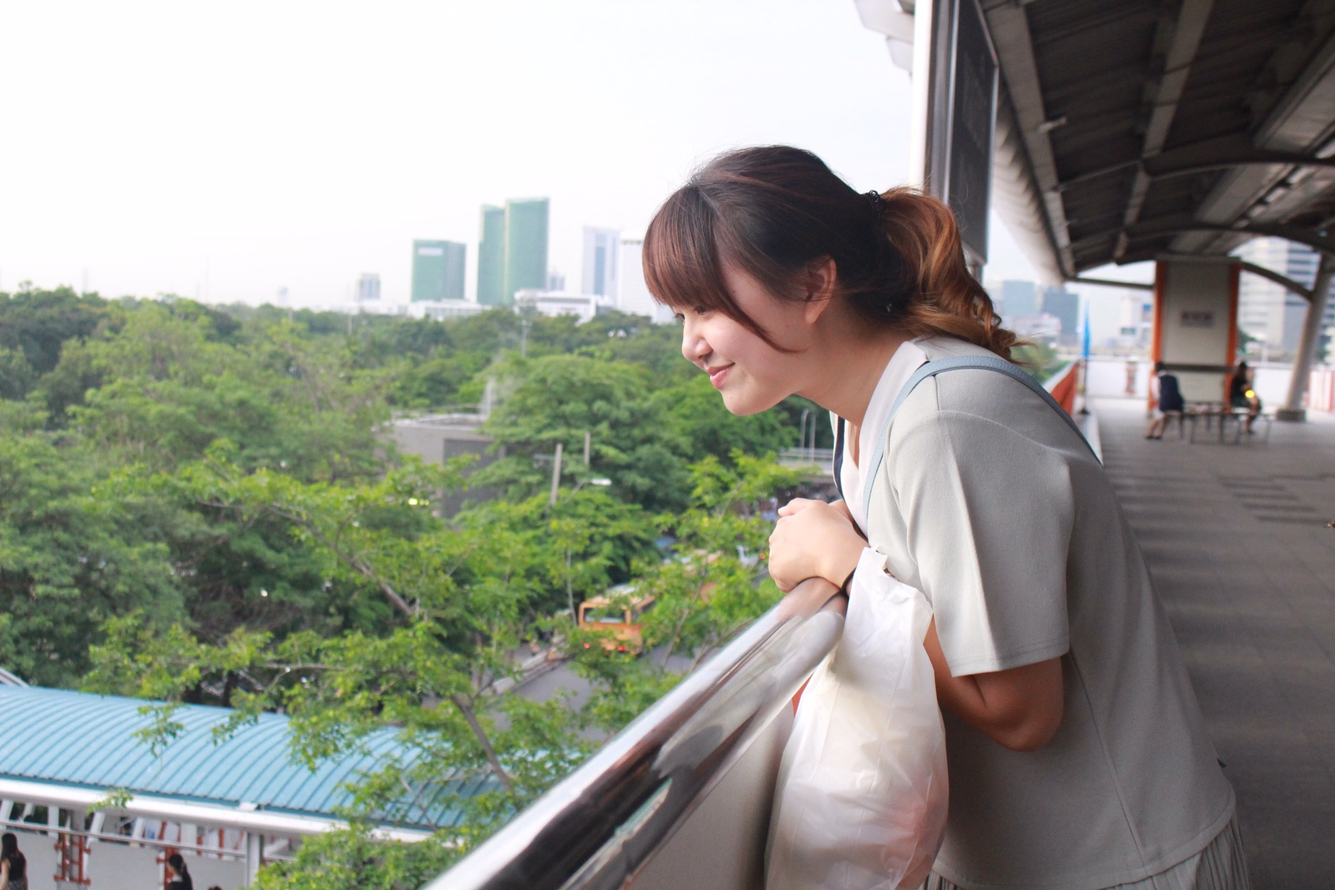
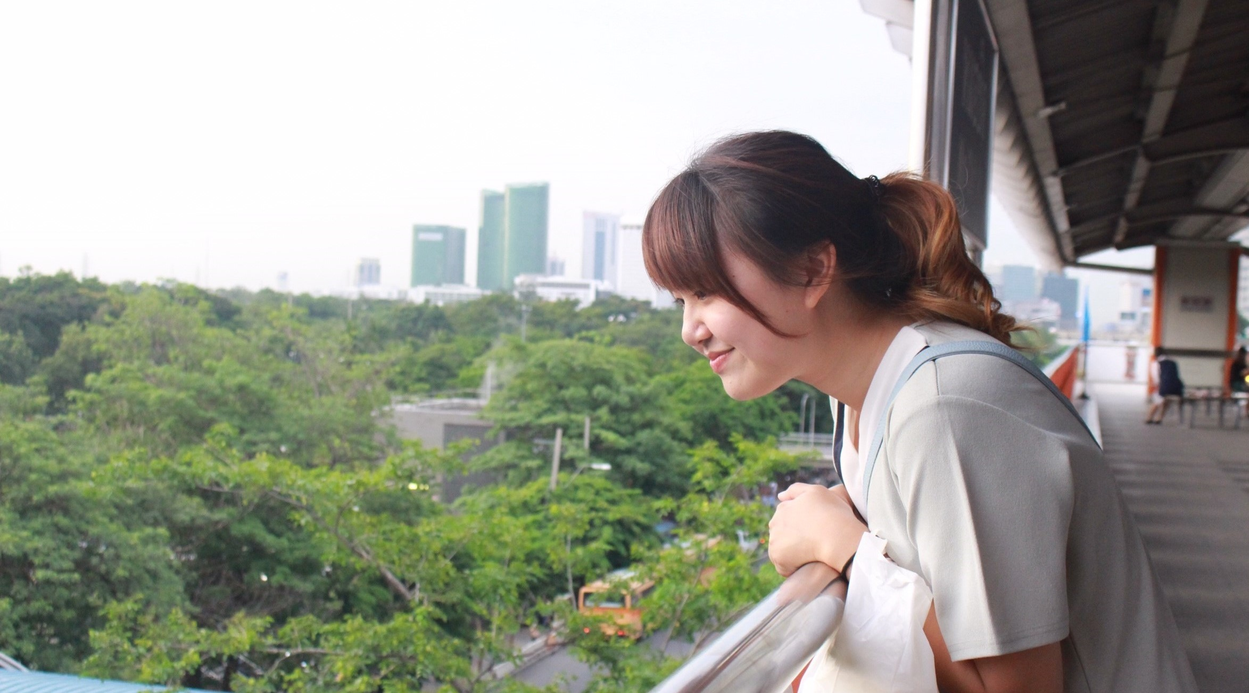
set image to fit screen

diff --git a/aboutme.html b/aboutme.html
@@ -12,26 +12,25 @@
   </a>
 </head>
 
-<body>
-  <header>
-    <nav>
-      <ul>
-        <li><a href="aboutme.html">About me</a></li>
-        <li><a href="projects.html">Projects</a></li>
-        <li><a href="passion.html">My Passion</a></li>
-      </ul>
-    </nav>
-  </header>
+  <body>
+    <header>
+      <nav>
+        <ul>
+          <li><a href="aboutme.html">About me</a></li>
+          <li><a href="projects.html">Projects</a></li>
+          <li><a href="passion.html">My Passion</a></li>
+        </ul>
+      </nav>
+    </header>
 
-<div class = "about_me" >
-  <p>Where I am from is Thailand </p>
-  <img class = "landscape" src="images/beach.jpg">
-  <p>Landed in Canada 2006 </p>
-  <img class = "landscape" src = "images/uofa.jpg">
-  <p>I lived in Vancouver but decided to move away from home to a cold cold city for exciting experiences, Edmonton </p>
-  <img src = "images/ice_field.jpg">
-  <p>Currently, study at the University of Alberta, pursuing computing science degree </p>
-</div>
-</body>
-
+  <div class = "about_me" >
+    <p>Where I am from is Thailand </p>
+    <img class = "landscape" src="images/beach.jpg">
+    <p>Landed in Canada 2006 </p>
+    <p>I lived in Vancouver but decided to move away from home to a cold cold city for exciting experiences, Edmonton </p>
+    <img src = "images/ice_field.jpg">
+    <p>Currently, study at the University of Alberta, pursuing computing science degree </p>
+    <img class = "landscape" src = "images/uofa.jpg">
+  </div>
+  </body>
 </html>

diff --git a/main.css b/main.css
@@ -7,7 +7,6 @@ h1{
   font-size: 60px;
   padding: 20px 0px 0px 50px;
   margin: 0;
-
 }
 nav {
   text-align: right;
@@ -40,21 +39,11 @@ a:hover{
   color:orange;
 }
 
-.about_me{
-  font-size: 25px;
-}
 p{
   font-family:"Abel";
   margin: 20px;
 }
-.center{
-    min-height: 150px;
-    min-width: 150px;
-    margin-left: auto;
-    margin-right: auto;
-    text-align: center;
-    display: table-cell;
-    vertical-align: middle }
+
 #intro{
   z-index: 100;
   position: absolute;
@@ -64,27 +53,23 @@ p{
   color: white;
   font-family:"Abel";
 }
-.imgContainer {
-  overflow: hidden;
-  width: 1350px;
-  height: 650px;
-}
+
 .imgContainer img {
-  width: 1400px;
-  height: 900px;
-  position = absolute;
-  top =0;
-  left=0;
+  width: 100%;
+  height: 100%;
+  margin: 0 auto;
+  display: block;
 }
 
 .connect{
   text-align: center;
   padding:50px;
+  margin: 0 auto;
   background-color: #FC913A;
 }
 .connect p{
   text-align: center;
-  margin:10px 0px 10px 0px;
+  margin:0px 0px 10px 0px;
   font-family: "Unica One";
   font-size: 50px;
 }
@@ -106,8 +91,6 @@ p{
   height: 120px;
   margin-bottom: 10px;
 }
-
-
 .changeImgOnHover:hover img {
     opacity: 0.7;
 }

diff --git a/about.css b/about.css
@@ -39,9 +39,23 @@ a:hover{
   color:orange;
 }
 
+div{
+  margin: 0;
+}
 .about_me{
   font-size: 25px;
+  margin: 0px auto;
+  background-color: white;
+  display: block;
 }
+
+.about_me img {
+  width: 100%;
+  height: 100%;
+  margin: 0 auto;
+  display: block;
+}
+
 p{
   font-family:"Abel";
   margin: 20px;
@@ -54,16 +68,3 @@ p{
     text-align: center;
     display: table-cell;
     vertical-align: middle }
-
-.imgContainer {
-  overflow: hidden;
-  width: 1350px;
-  height: 650px;
-}
-.imgContainer img {
-  width: 1400px;
-  height: 900px;
-  position = absolute;
-  top =0;
-  left=0;
-}

diff --git a/projects.html b/projects.html
@@ -18,7 +18,7 @@
       <ul>
         <li><a href="aboutme.html">About me</a></li>
         <li><a href="projects.html">Projects</a></li>
-        <li><a href="#">My Passion</a></li>
+        <li><a href="passion.html">My Passion</a></li>
       </ul>
     </nav>
   </header>
